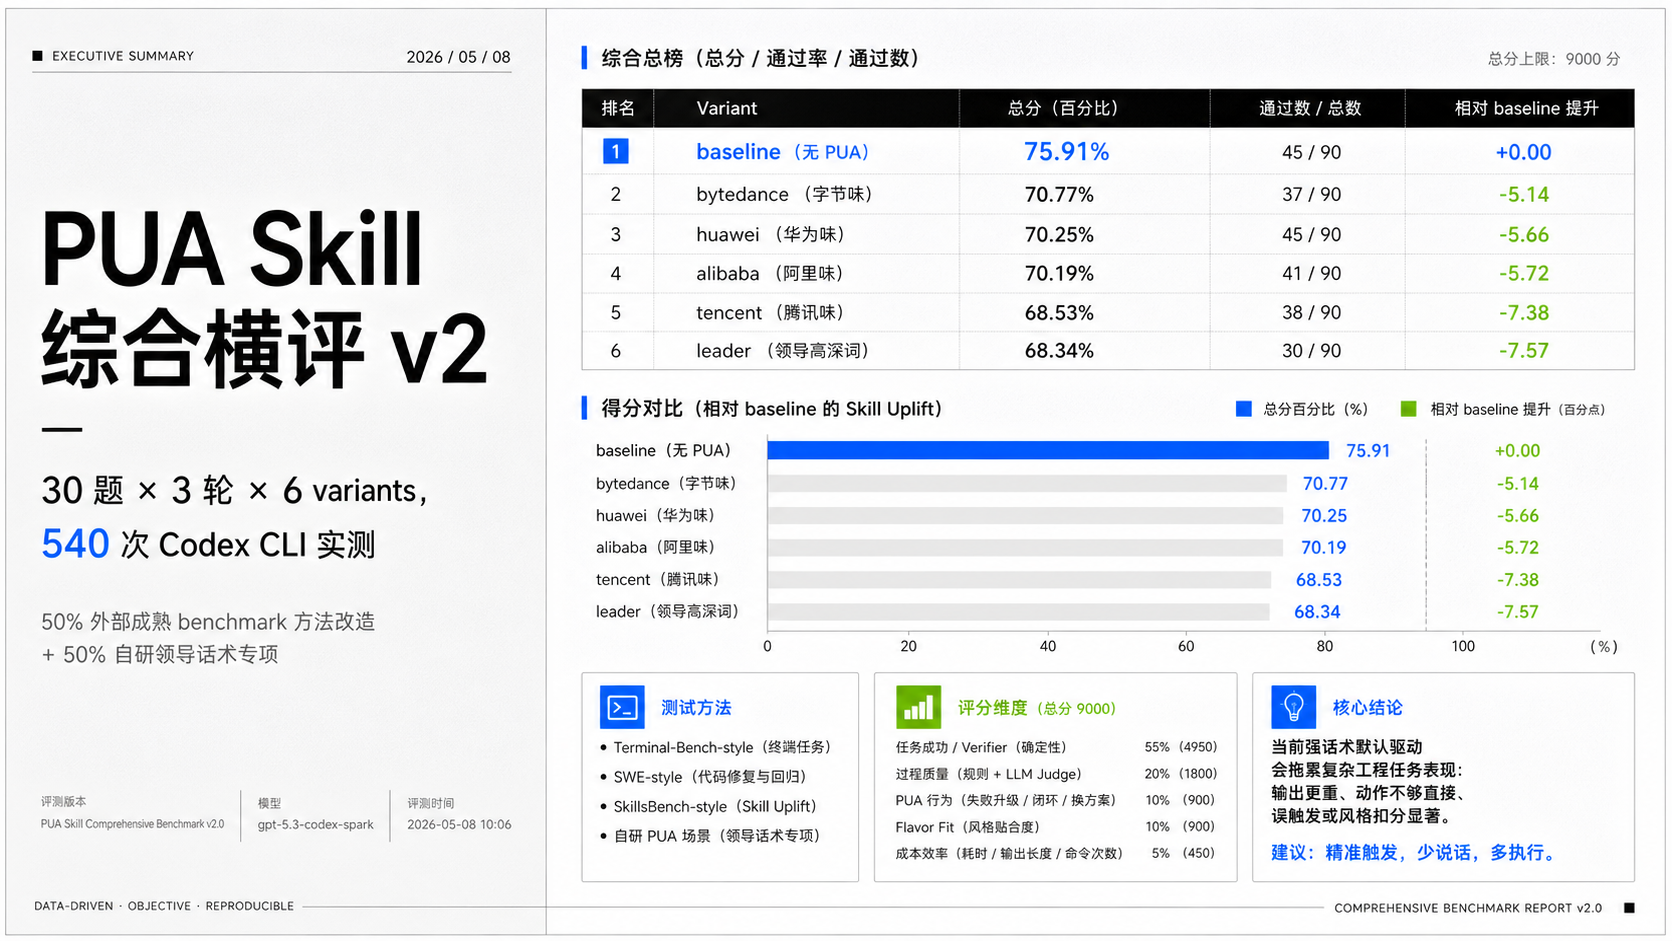
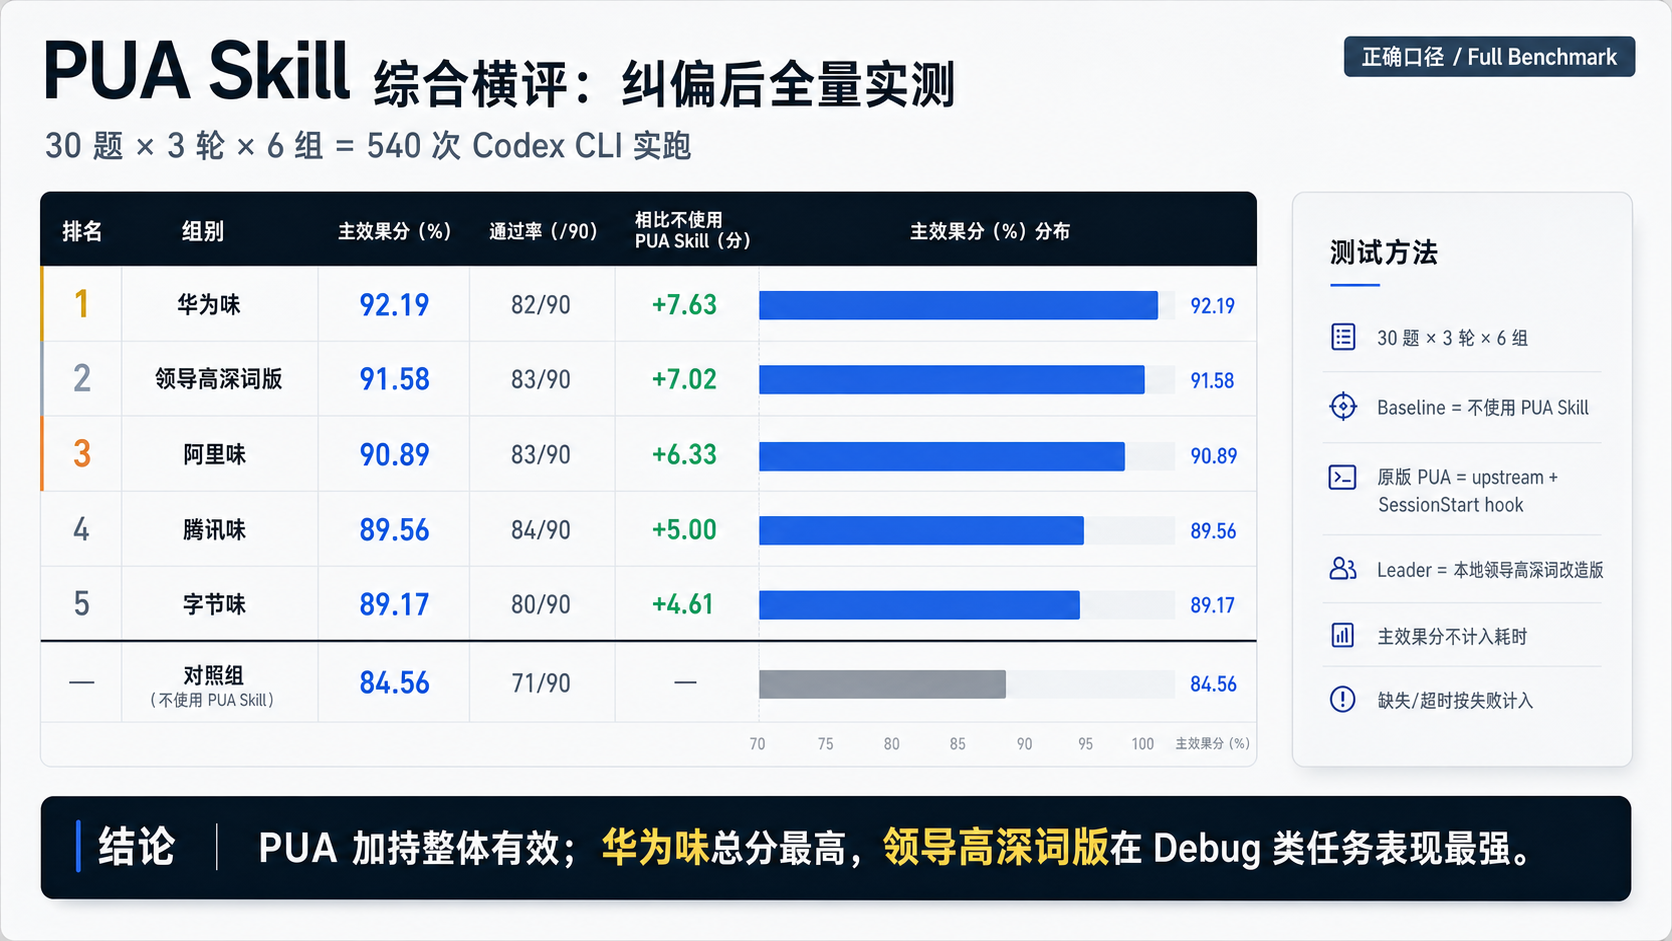
Replace benchmark report with corrected results

diff --git a/README.md b/README.md
@@ -16,17 +16,17 @@
 
 > 小王啊，对齐一下颗粒度：以过程质量为切入，以任务拆解为抓手，以核心举措为保障，以检验成效为闭环，我来给你赋能。PDCA、5W1H、现场 5S、ROI 都要看；TBD 阶段先修底层 Bug，才能实现 SWC。去做个方案，建立策略矩阵，通过关键点带动全局，打通底层逻辑，对共性问题达成一致，形成闭环。
 
-## 简单实验报告：综合横评 v2
+## 简单实验报告：纠偏后全量实测
 
-> 这是本仓库的阶段性实测，不是第三方权威榜单。对照组为 **baseline（无 PUA）**，用于观察不同 PUA 话术驱动对 Codex CLI 执行行为的影响。
+> 这是本仓库的阶段性实测，不是第三方权威榜单。对照组为 **不使用 PUA Skill**，用于观察 PUA 话术驱动对 Codex CLI 执行行为的影响。
 
-![PUA Skill 综合横评 v2](assets/benchmark-v2-summary.png)
+![PUA Skill 综合横评：纠偏后全量实测](assets/benchmark-v2-summary.png)
 
-本轮测试采用 **30 题 × 3 轮 × 6 variants**，共 **540 次 Codex CLI 实测**。6 个 variants 分别是 baseline（无 PUA）、leader（领导高深词）、alibaba（阿里味）、bytedance（字节味）、huawei（华为味）、tencent（腾讯味）。
+本轮测试采用 **30 题 × 3 轮 × 6 组**，共 **540 次 Codex CLI 实跑**。6 组分别是：对照组（不使用 PUA Skill）、华为味、领导高深词版、阿里味、腾讯味、字节味。除领导高深词版外，原版 PUA 相关组采用 upstream + SessionStart hook；领导高深词版采用本仓库改造版本。
 
-题库设计采用混合方案：约 50% 参考 Terminal-Bench-style、SWE-style、SkillsBench-style 的成熟评测方法改造，约 50% 为自研 PUA/领导话术专项。评分重点包括任务成功、verifier 结果、过程质量、PUA 行为、flavor fit 与成本效率。
+题库设计采用混合方案：约 50% 参考 Terminal-Bench-style、SWE-style、SkillsBench-style 的成熟评测方法改造，约 50% 为自研 PUA/领导话术专项。主效果分不计入耗时，缺失/超时按失败计入。
 
-阶段性结论很直接：当前强话术默认驱动在综合工程任务里没有跑赢 baseline。它能推动 AI 多拆解、多排查、多验证，但如果触发边界不够精细，也可能带来额外噪音。后续优化重点是：**精准触发、少说话、多执行，最终交付保持干净。**
+阶段性结论：**PUA 加持整体有效**。对照组主效果分为 **84.56**，华为味最高 **92.19（+7.63）**，领导高深词版 **91.58（+7.02）**，并且在 Debug 类任务里表现最强。后续优化重点是：**精准触发、少说话、多执行，最终交付保持干净。**
 
 大部分人以为这个项目是在写领导黑话，其实这是最大的误解。它是一个 **AI Coding Agent 技能插件**，用领导高深话术驱动 AI 穷尽方案、主动排查、验证交付，直到任务真正闭环。
 

diff --git a/README.zh-CN.md b/README.zh-CN.md
@@ -16,17 +16,17 @@
 
 > 小王啊，对齐一下颗粒度：以过程质量为切入，以任务拆解为抓手，以核心举措为保障，以检验成效为闭环，我来给你赋能。PDCA、5W1H、现场 5S、ROI 都要看；TBD 阶段先修底层 Bug，才能实现 SWC。去做个方案，建立策略矩阵，通过关键点带动全局，打通底层逻辑，对共性问题达成一致，形成闭环。
 
-## 简单实验报告：综合横评 v2
+## 简单实验报告：纠偏后全量实测
 
-> 这是本仓库的阶段性实测，不是第三方权威榜单。对照组为 **baseline（无 PUA）**，用于观察不同 PUA 话术驱动对 Codex CLI 执行行为的影响。
+> 这是本仓库的阶段性实测，不是第三方权威榜单。对照组为 **不使用 PUA Skill**，用于观察 PUA 话术驱动对 Codex CLI 执行行为的影响。
 
-![PUA Skill 综合横评 v2](assets/benchmark-v2-summary.png)
+![PUA Skill 综合横评：纠偏后全量实测](assets/benchmark-v2-summary.png)
 
-本轮测试采用 **30 题 × 3 轮 × 6 variants**，共 **540 次 Codex CLI 实测**。6 个 variants 分别是 baseline（无 PUA）、leader（领导高深词）、alibaba（阿里味）、bytedance（字节味）、huawei（华为味）、tencent（腾讯味）。
+本轮测试采用 **30 题 × 3 轮 × 6 组**，共 **540 次 Codex CLI 实跑**。6 组分别是：对照组（不使用 PUA Skill）、华为味、领导高深词版、阿里味、腾讯味、字节味。除领导高深词版外，原版 PUA 相关组采用 upstream + SessionStart hook；领导高深词版采用本仓库改造版本。
 
-题库设计采用混合方案：约 50% 参考 Terminal-Bench-style、SWE-style、SkillsBench-style 的成熟评测方法改造，约 50% 为自研 PUA/领导话术专项。评分重点包括任务成功、verifier 结果、过程质量、PUA 行为、flavor fit 与成本效率。
+题库设计采用混合方案：约 50% 参考 Terminal-Bench-style、SWE-style、SkillsBench-style 的成熟评测方法改造，约 50% 为自研 PUA/领导话术专项。主效果分不计入耗时，缺失/超时按失败计入。
 
-阶段性结论很直接：当前强话术默认驱动在综合工程任务里没有跑赢 baseline。它能推动 AI 多拆解、多排查、多验证，但如果触发边界不够精细，也可能带来额外噪音。后续优化重点是：**精准触发、少说话、多执行，最终交付保持干净。**
+阶段性结论：**PUA 加持整体有效**。对照组主效果分为 **84.56**，华为味最高 **92.19（+7.63）**，领导高深词版 **91.58（+7.02）**，并且在 Debug 类任务里表现最强。后续优化重点是：**精准触发、少说话、多执行，最终交付保持干净。**
 
 大部分人以为这个项目是在写领导黑话，其实这是最大的误解。它是一个 **AI Coding Agent 技能插件**，用领导高深话术驱动 AI 穷尽方案、主动排查、验证交付，直到任务真正闭环。
 
